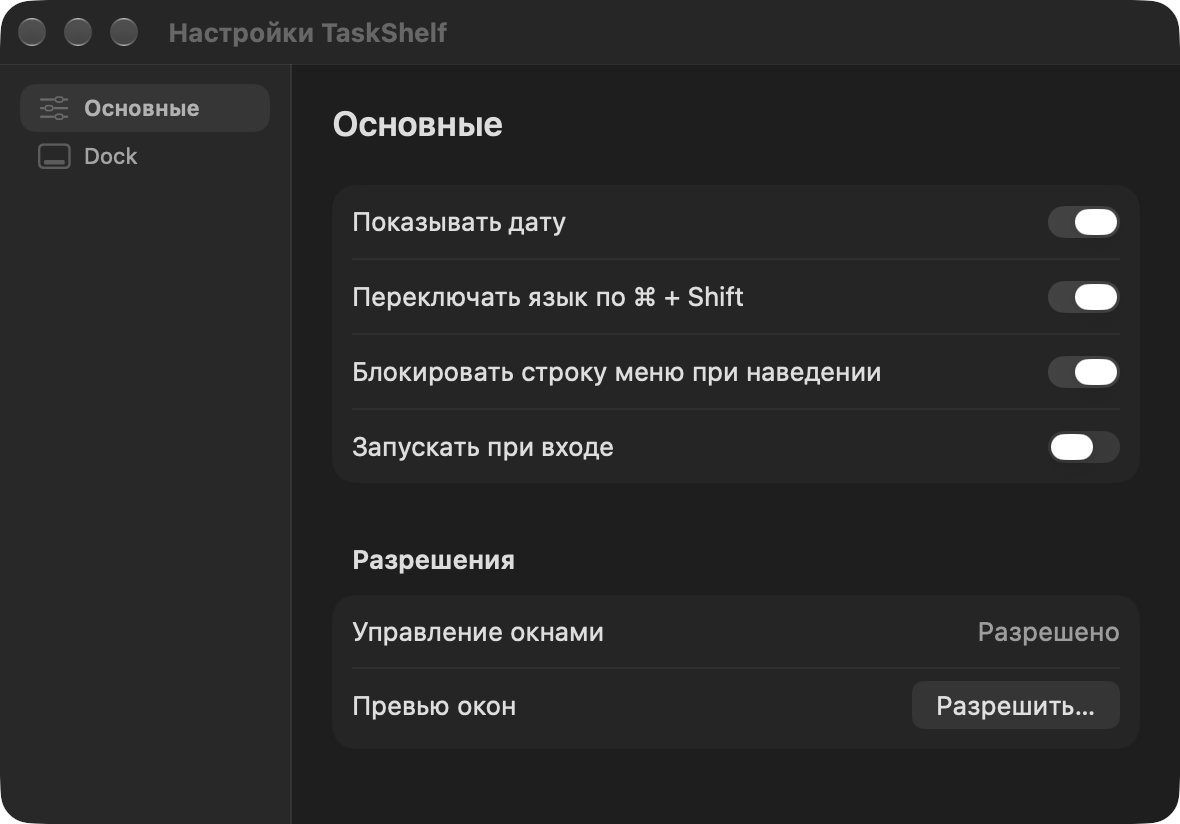
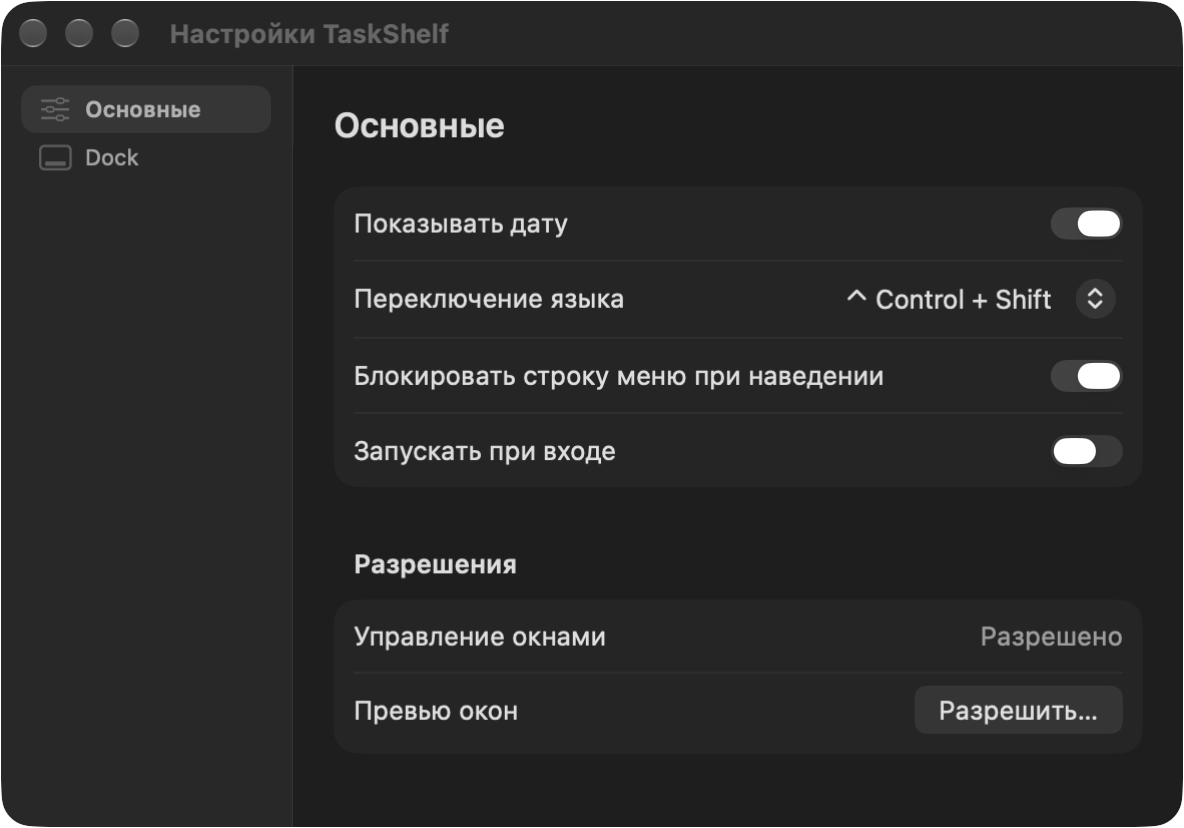
Support language switching with remapped Command and Control keys

diff --git a/Source/LayoutShortcut.swift b/Source/LayoutShortcut.swift
@@ -1,19 +1,45 @@
 import AppKit
 
+enum LayoutShortcutMode: String, CaseIterable {
+    case system, commandShift, controlShift
+
+    static func saved(in defaults: UserDefaults) -> Self {
+        if let value = defaults.string(forKey: "layoutShortcutMode"), let mode = Self(rawValue: value) { return mode }
+        return defaults.bool(forKey: "commandShiftLanguage") ? .commandShift : .system
+    }
+
+    var modifier: CGEventFlags? {
+        switch self {
+        case .system: return nil
+        case .commandShift: return .maskCommand
+        case .controlShift: return .maskControl
+        }
+    }
+
+    var title: String {
+        switch self {
+        case .system: return "Как в macOS"
+        case .commandShift: return "⌘ Command + Shift"
+        case .controlShift: return "⌃ Control + Shift"
+        }
+    }
+}
+
 /// Fires once, on release. Any other input during the chord belongs to the active app.
 struct LayoutChord {
+    let modifier: CGEventFlags
     private var armed = false
     private var cancelled = false
 
     mutating func handle(_ type: CGEventType, flags: CGEventFlags) -> Bool {
-        let pair: CGEventFlags = [.maskCommand, .maskShift]
+        let pair: CGEventFlags = [modifier, .maskShift]
         let held = flags.intersection(pair)
         if held.isEmpty {
             let fire = type == .flagsChanged && armed && !cancelled
-            self = LayoutChord()
+            self = LayoutChord(modifier: modifier)
             return fire
         }
-        if type != .flagsChanged || !flags.intersection([.maskAlternate, .maskControl, .maskSecondaryFn]).isEmpty {
+        if type != .flagsChanged || !flags.intersection([.maskAlternate, .maskCommand, .maskControl, .maskSecondaryFn]).subtracting(modifier).isEmpty {
             cancelled = true
         } else if held == pair {
             armed = true
@@ -24,12 +50,17 @@ struct LayoutChord {
 
 final class LayoutShortcut {
     private var tap: CFMachPort?
-    private var chord = LayoutChord()
+    private var chord = LayoutChord(modifier: .maskCommand)
     private let switchLayout: () -> Void
 
     init(switchLayout: @escaping () -> Void) { self.switchLayout = switchLayout }
 
-    func start() -> Bool {
+    func apply(_ mode: LayoutShortcutMode) -> Bool {
+        guard let modifier = mode.modifier else {
+            stop()
+            return true
+        }
+        if chord.modifier != modifier { chord = LayoutChord(modifier: modifier) }
         if tap != nil { return true }
         let types: [CGEventType] = [.flagsChanged, .keyDown, .leftMouseDown, .rightMouseDown, .otherMouseDown, .scrollWheel]
         let mask = types.reduce(CGEventMask(0)) { $0 | (1 << $1.rawValue) }
@@ -37,7 +68,7 @@ final class LayoutShortcut {
             guard let context else { return Unmanaged.passUnretained(event) }
             let shortcut = Unmanaged<LayoutShortcut>.fromOpaque(context).takeUnretainedValue()
             if type == .tapDisabledByTimeout || type == .tapDisabledByUserInput {
-                shortcut.chord = LayoutChord()
+                shortcut.chord = LayoutChord(modifier: shortcut.chord.modifier)
                 if let tap = shortcut.tap { CGEvent.tapEnable(tap: tap, enable: true) }
             } else if shortcut.chord.handle(type, flags: event.flags) {
                 shortcut.switchLayout()
@@ -56,7 +87,7 @@ final class LayoutShortcut {
     func stop() {
         if let tap { CFMachPortInvalidate(tap) }
         tap = nil
-        chord = LayoutChord()
+        chord = LayoutChord(modifier: chord.modifier)
     }
     deinit { stop() }
 }

diff --git a/Source/ShelfSettings.swift b/Source/ShelfSettings.swift
@@ -9,7 +9,7 @@ private enum SettingsPage: String, CaseIterable {
 private struct ShelfSettings: View {
     unowned let owner: Delegate
     @State private var page: SettingsPage? = .general
-    @AppStorage("commandShiftLanguage") private var commandShiftLanguage = false
+    @AppStorage("layoutShortcutMode") private var layoutShortcutMode: String?
     @AppStorage("blockMenuBarHover") private var blockMenuBarHover = false
     @AppStorage("showDate") private var showsDate = true
     @AppStorage("dockMode") private var dockMode = DockMode.system
@@ -77,19 +77,19 @@ private struct ShelfSettings: View {
                         Section {
                             Toggle("Показывать дату", isOn: $showsDate)
                                 .onChange(of: showsDate) { _ in owner.render() }
-                            Toggle("Переключать язык по ⌘ + Shift", isOn: Binding(get: { commandShiftLanguage }, set: { enabled in
-                                if enabled {
-                                    guard AXIsProcessTrusted() else { owner.requestWindowAccess(); return }
-                                    guard owner.layoutShortcut.start() else {
-                                        owner.notify("Не удалось включить сочетание. Проверьте доступ TaskShelf к мониторингу ввода в настройках macOS.")
-                                        return
-                                    }
-                                } else {
-                                    owner.layoutShortcut.stop()
+                            Picker("Переключение языка", selection: Binding(get: {
+                                layoutShortcutMode.flatMap(LayoutShortcutMode.init(rawValue:)) ?? LayoutShortcutMode.saved(in: owner.defaults)
+                            }, set: { mode in
+                                if mode != .system && !AXIsProcessTrusted() { owner.requestWindowAccess(); return }
+                                guard owner.layoutShortcut.apply(mode) else {
+                                    owner.notify("Не удалось включить сочетание. Проверьте доступ TaskShelf к мониторингу ввода в настройках macOS.")
+                                    return
                                 }
-                                commandShiftLanguage = enabled
-                            }))
-                            .help("Нажмите и отпустите Command и Shift вместе. Выключите, чтобы вернуться к штатному переключению.")
+                                layoutShortcutMode = mode.rawValue
+                            })) {
+                                ForEach(LayoutShortcutMode.allCases, id: \.self) { Text($0.title).tag($0) }
+                            }
+                            .help("Если Command и Control поменяны местами в macOS, для физической клавиши ⌘ выберите Control + Shift.")
                             Toggle("Блокировать строку меню при наведении", isOn: Binding(get: { blockMenuBarHover }, set: { enabled in
                                 if enabled {
                                     guard AXIsProcessTrusted() else { owner.requestWindowAccess(); return }

diff --git a/Tests/LayoutChord.swift b/Tests/LayoutChord.swift
@@ -9,8 +9,8 @@ struct LayoutChordTests {
         let shift: Event = (.flagsChanged, .maskShift)
         let both: Event = (.flagsChanged, [.maskCommand, .maskShift])
         let released: Event = (.flagsChanged, [])
-        func verify(_ events: [Event], switches: [Int]) {
-            var chord = LayoutChord()
+        func verify(_ events: [Event], modifier: CGEventFlags = .maskCommand, switches: [Int]) {
+            var chord = LayoutChord(modifier: modifier)
             let actual = events.indices.filter { chord.handle(events[$0].0, flags: events[$0].1) }
             precondition(actual == switches)
         }
@@ -22,6 +22,23 @@ struct LayoutChordTests {
         verify([shift, (.keyDown, shift.1), both, command, released], switches: [])
         verify([command, both, (.flagsChanged, [.maskControl, .maskCommand, .maskShift]), both, shift, released], switches: [])
         verify([command, both, (.keyDown, both.1), shift, released, command, both, command, released], switches: [8])
+        let control: Event = (.flagsChanged, .maskControl)
+        let remapped: Event = (.flagsChanged, [.maskControl, .maskShift])
+        verify([control, remapped, shift, released, shift, remapped, control, released], modifier: .maskControl, switches: [3,7])
+        verify([command, both, shift, released], modifier: .maskControl, switches: [])
+        verify([control, remapped, shift, released], switches: [])
+        verify([control, remapped, (.keyDown, remapped.1), shift, released], modifier: .maskControl, switches: [])
+        verify([control, remapped, (.flagsChanged, [.maskCommand, .maskControl, .maskShift]), remapped, shift, released], modifier: .maskControl, switches: [])
+        let suite = "local.taskshelf.tests." + UUID().uuidString
+        let prefs = UserDefaults(suiteName: suite)!
+        defer { prefs.removePersistentDomain(forName: suite) }
+        precondition(LayoutShortcutMode.saved(in: prefs) == .system)
+        prefs.set(true, forKey: "commandShiftLanguage")
+        precondition(LayoutShortcutMode.saved(in: prefs) == .commandShift)
+        for mode in LayoutShortcutMode.allCases {
+            prefs.set(mode.rawValue, forKey: "layoutShortcutMode")
+            precondition(LayoutShortcutMode.saved(in: prefs) == mode)
+        }
         print("PASS modifier order, release, ordinary shortcuts, extra modifiers and pointer gestures")
     }
 }

diff --git a/Source/main.swift b/Source/main.swift
@@ -496,7 +496,7 @@ final class Delegate: NSObject, NSApplicationDelegate {
         guard AXIsProcessTrusted(), !querying else { return }
         if !CommandLine.arguments.contains("--ui-check") {
             if zoomMonitor == nil { monitorTitleBarZoom() }
-            if defaults.bool(forKey: "commandShiftLanguage") { _ = layoutShortcut.start() }
+            _ = layoutShortcut.apply(LayoutShortcutMode.saved(in: defaults))
             if defaults.bool(forKey: "blockMenuBarHover") { _ = menuBarEdge.start() }
         }
         querying = true

diff --git a/README.md b/README.md
@@ -77,7 +77,9 @@
 
 ### Переключение языка с клавиатуры
 
-В **«Настройки TaskShelf → Основные»** включите **«Переключать язык по ⌘ + Shift»**. Нажмите обе клавиши и отпустите их, чтобы перейти к следующему языку. Работают и левые, и правые клавиши. Если добавить третью клавишу, например Z в ⌘ + Shift + Z, сочетание выполнит обычную команду приложения. Выключите переключатель, чтобы сразу вернуться к штатному управлению раскладкой macOS.
+Откройте **«Настройки TaskShelf → Основные → Переключение языка»**. Выберите **«⌘ Command + Shift»**. Если в macOS клавиши Command и Control поменяны местами, выберите **«⌃ Control + Shift»**, чтобы переключать язык физической клавишей ⌘. Нажмите обе клавиши и отпустите. Сочетания с третьей клавишей выполняют обычные команды приложения.
+
+Выберите **«Как в macOS»**, чтобы сразу вернуться к штатному переключению.
 
 ### Приложения под стрелкой
 
@@ -97,7 +99,7 @@
 
 Пока TaskShelf работает, наведение на внешний верхний край блокируется до того, как macOS раскроет скрытую строку меню. Строку меню по-прежнему можно вызвать с клавиатуры. На общей границе двух мониторов, расположенных друг над другом, указатель свободно переходит между ними. Выключите переключатель, чтобы вернуть обычное наведение.
 
-<img src="docs/media/menu-bar-setting.png" width="510" alt="Основные настройки TaskShelf с включёнными переключателями языка по ⌘ + Shift и блокировки строки меню">
+<img src="docs/media/menu-bar-setting.png" width="510" alt="В основных настройках выбрано Control + Shift для переключения языка и включена блокировка строки меню">
 
 ## Установка
 
@@ -126,4 +128,4 @@ open TaskShelf.app
 
 </details>
 
-Скриншоты и GIF собраны из интерфейса TaskShelf 1.63–1.70 с демонстрационными окнами, приложениями и сетями. [Подробная инструкция](Прочти.txt) · [История изменений](https://github.com/plakapenka/TaskShelf/commits/main/)
+Скриншоты и GIF собраны из интерфейса TaskShelf 1.63–1.71 с демонстрационными окнами, приложениями и сетями. [Подробная инструкция](Прочти.txt) · [История изменений](https://github.com/plakapenka/TaskShelf/commits/main/)
